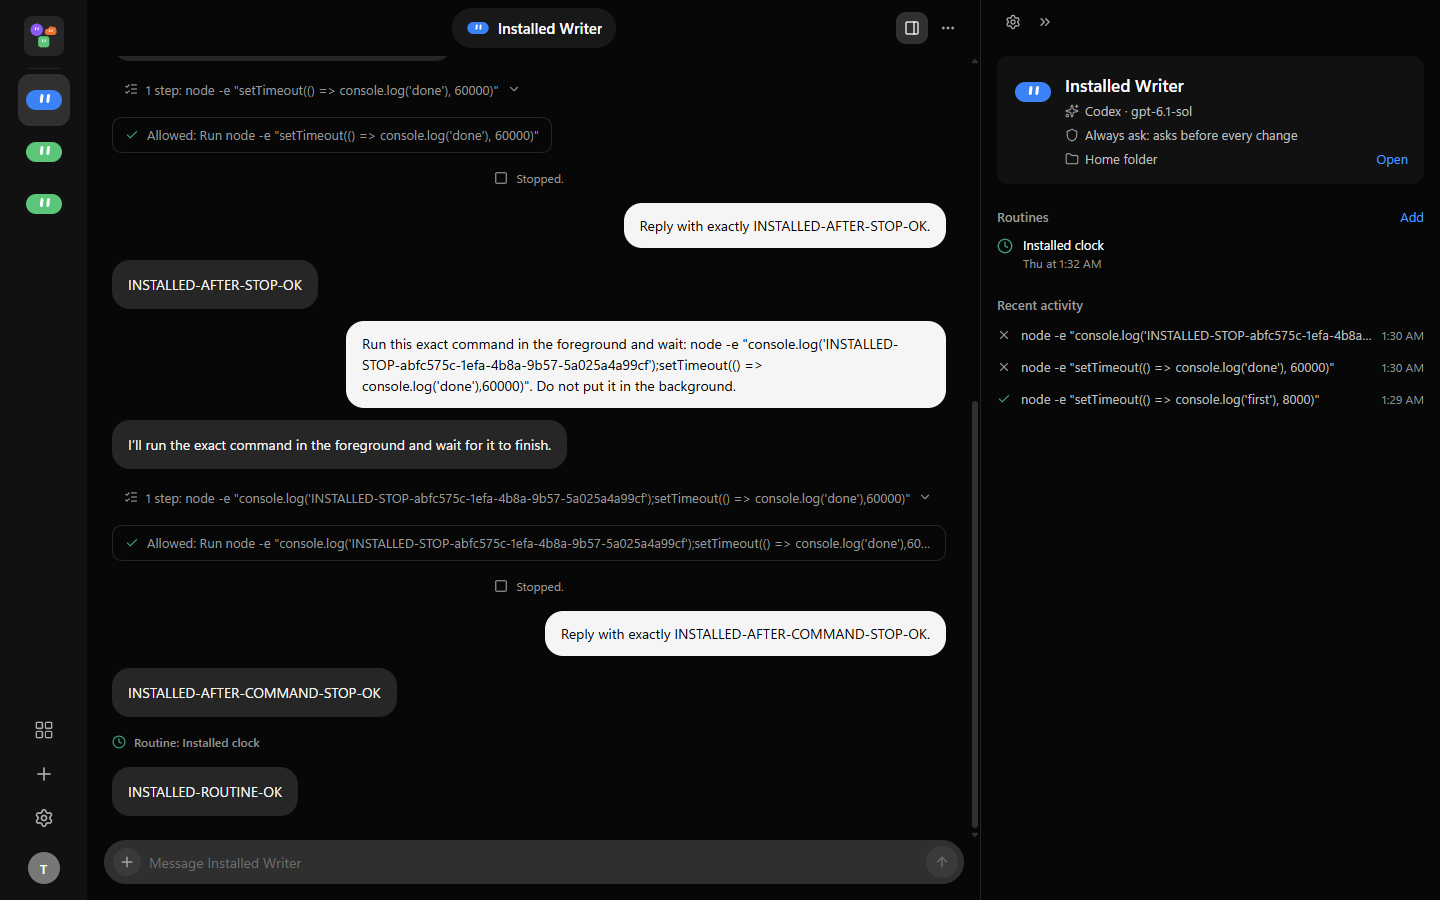
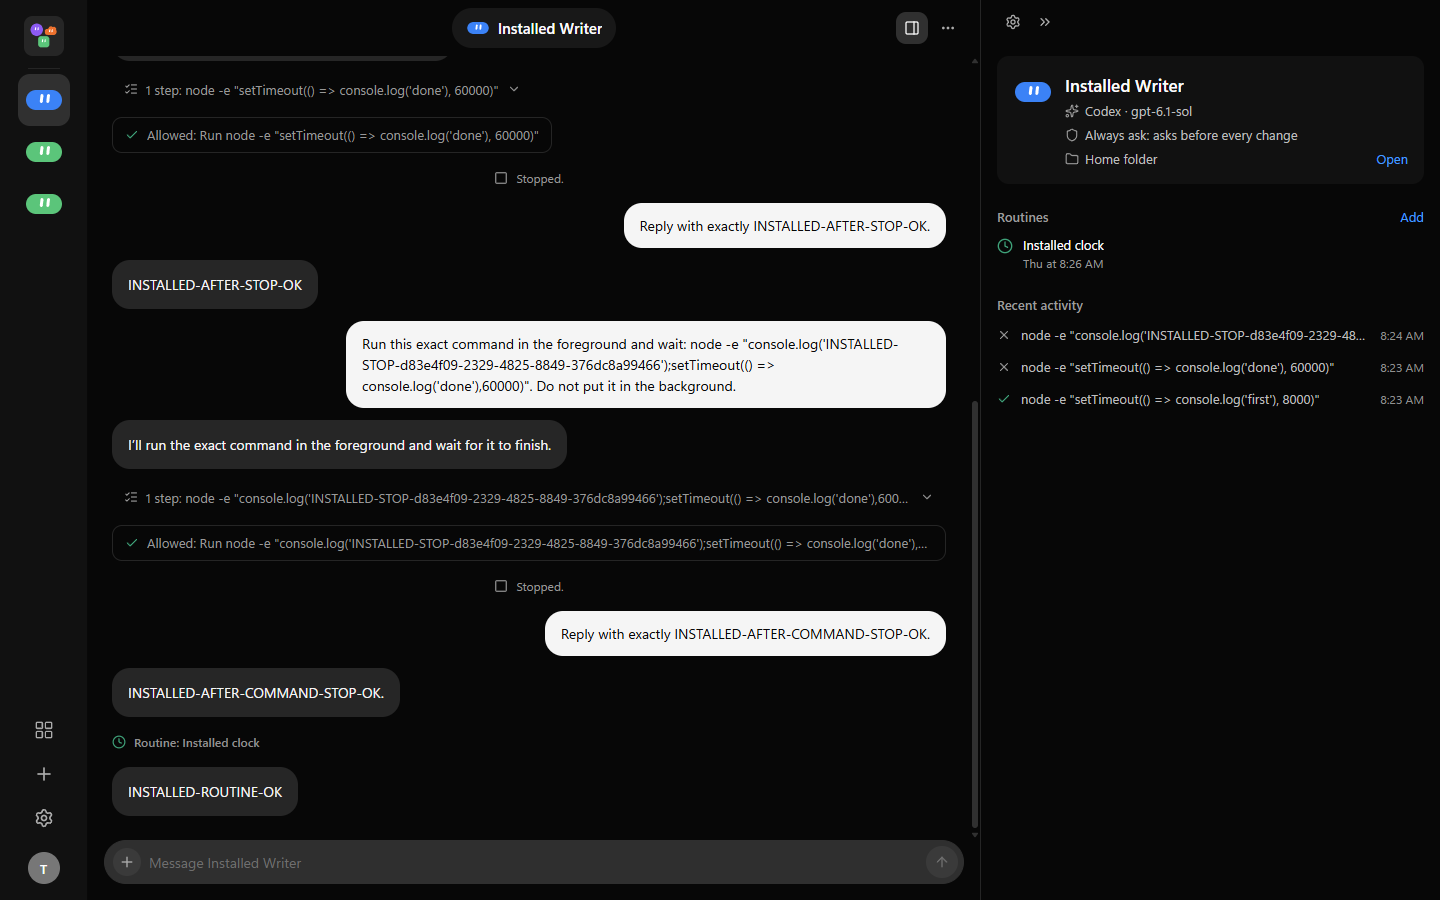
Record installed embedded-browser and quiet-startup acceptance

diff --git a/docs/superpowers/demos/tjommie-phase1-embedded-browser.md b/docs/superpowers/demos/tjommie-phase1-embedded-browser.md
@@ -1,0 +1,52 @@
+# Phase 1 follow-up: embedded browser and quiet startup
+
+Date: 2026-10-22. Worktree: `tjommie-phase1-completion`, branch `phase1-completion-20261021`, based on `a6d2238`.
+
+Status: source integration passed; implementation committed as `6311819`. The refreshed installer is installed and all automated acceptance checks passed. The owner deferred the usual-site embedded login check until later. The previously installed Phase 1 artifact does not establish acceptance of these follow-up changes.
+
+## Changes
+
+- One daemon-owned persistent browser context per bot. The interactive application side panel and bundled Playwright MCP share pages, tabs and signed-in sites. Existing `chrome-profile` directories are retained. The engine is headless Chrome/Edge with a private process pipe, not a separate visible browser window or an exposed browser-debugging port.
+- Explicit Take control / Resume bot, navigation, back/forward/reload, tabs, JavaScript dialogs, pointer/keyboard/wheel/paste input and a keyboard exit route. Closing the panel releases input and returns control to the bot without closing its browser. Same-bot reopen waits for the previous panel's teardown.
+- Frame/page/generation checks and invalidation around structural navigation/resize changes prevent old page pictures from sending input into changed layouts. Browser cleanup attempts independent resources even after a failure. Download saving has one owner while MCP is connected and returns to the manager after disconnect.
+- Chrome/Edge discovery checks machine, x86 and per-user installations and reports a missing engine explicitly.
+- Codex quota selection considers primary and secondary windows, preserves percentage/reset pairs, and waits for the later reset when both are exhausted.
+- Routine failures persist in an outbox atomically with failed history. The desktop subscribes, fetches pending notices, deduplicates live/replayed run ids, and acknowledges only after Windows confirms showing a notification or the foreground suppression policy handles it. Failed/unsupported display stays pending.
+- Windows Codex npm installations resolve their bundled native executable directly. The npm wrapper was independently proven to create a visible terminal despite its parent being hidden. Native launches retain managed-package metadata, the helper path and account isolation. Unknown layouts retain the compatible wrapper fallback. Forced daemon termination helpers are hidden too.
+- Compatible dependency patches were applied. Production `npm audit --omit=dev` reports zero vulnerabilities. The full audit retains 13 affected development-tool entries (5 high, 8 moderate) rooted in `braces` and `sprintf-js`, without compatible patched releases; no forced downgrades were applied.
+
+## Verification record
+
+- Final combined fast suite: **937 tests / 73 files passed**.
+- Root/UI TypeScript, syntax-based no-`any` gate (**214 TypeScript files**) and UI lint passed.
+- Production Next 16.3.8 static build passed.
+- Final real-browser integration: **2 tests / 2 files passed**, covering the daemon's shared context and the actual desktop side panel. The tests include synthetic sign-in persistence, two-bot isolation, dialogs, downloads, MCP disconnect survival, popup resize recovery, exact JPEG dimensions and click alignment.
+- Independent read-only reviewers' findings were fixed and re-reviewed.
+- `npm run package` passed. Mandatory `npm run test:packaged` passed: **1 executed test, zero skips**, with current input and all artifact hashes verified before and after execution.
+- Per-user NSIS installation exited **0**. Installed executable and every payload hash matched the verified build before normal-root acceptance.
+- Exact installed browser panel: **1 real test passed** (16.87 s), including mouse Go, typing, dialogs, popup close/resize, handback, reopening, isolation and owned headless/pipe/no-TCP/no-window checks.
+- Normal-app Own folder acceptance passed using the owner-authorized existing managed Codex account: in-folder work without approvals, same bot/file and another successful turn after restart, fixture deletion, and **zero new visible terminal windows** at 50 ms sampling. See [own-folder-results.json](own-folder-results.json).
+- Installed startup routine failure replay passed: orphan history is failed durably, and the desktop receives/handles/acknowledges the notice after daemon restart. This was intentional foreground suppression, not an assertion of OS toast rendering. See [startup-notice-results.json](startup-notice-results.json).
+- **All 9 installed Phase 1 acceptance checks passed**: provider readiness, cross-provider exchange, original-turn steering, both Stop timings, persistent exact Write approval, browser tools/profile, approved routine proposal, and scheduled execution with the window closed. Stop took **594 ms** immediately after approval and **602 ms** after the sandbox command was running; both persisted as interrupted. See [installed-automated-results.json](installed-automated-results.json).
+- Final provenance verification passed again after acceptance. Normal data retained **2 bots / 1 enabled routine**, and no temporary Own folder bot remains. The app was left closed.
+- Screenshots: [embedded side panel](../../screenshots/phase1-embedded-browser.png) and [installed chat](../../screenshots/phase1-installed-main-chat.png). The local synthetic page is intentionally plain; application chrome uses the existing wireframe/design system with the owner-requested browser extension.
+
+## Limits
+
+- Manual native file pickers, operating-system authentication dialogs and passkey flows are not exposed by this panel. Attach files in chat and ask the bot to upload them. A pending file chooser can be cancelled by the bot with an empty file list after Resume bot; the actual cancellation recovery is covered by the synthetic browser test.
+- Synthetic sites establish cookies/localStorage persistence, isolation and shared bot/manual sessions. They do not establish compatibility with every third-party login provider. The owner chose to test a usual site later on October 22; that manual acceptance remains pending for this new embedded implementation, and the earlier external-browser confirmation does not substitute for it. Existing real credentials are never copied to make a fixture pass.
+- A crash after a Windows notification is shown but before its acknowledgement can replay that notification after restart. Foreground suppression and actual OS toast rendering are distinct acceptance cases.
+- Normal startup and bot work should remain silent. Explicit Claude account sign-in still uses the provider's interactive sign-in console; this change does not introduce an embedded provider terminal.
+- Unknown/localized/partial Windows process termination reports still fail closed. Existing process-tree enumeration limits from the Phase 1 acceptance report remain; this is not Windows Job Object containment.
+- Current Chrome supports the experimental native contents-size repair. Older Chrome/Edge are not separately verified; an explicit unsupported-method response falls back to Playwright viewport sizing, and mismatched captures stay hidden.
+- One earlier synthetic browser test directory could not be removed because tool policy blocked deletion. Its owned browser processes were stopped. Later disposable browser tests cleaned up their own roots.
+
+Nothing is pushed, published or merged into `main` by this task.
+
+## Artifact
+
+- Implementation commit: `6311819`.
+- Installer: `dist-desktop/installer/Tjommie Setup 0.1.0.exe`, 120404614 bytes, unsigned per-user Windows x64 build.
[2 lines of base64/hex data omitted]
+- Provenance covers **569 artifact files**.

diff --git a/docs/superpowers/plans/2026-10-22-phase1-gaps-and-embedded-browser.md b/docs/superpowers/plans/2026-10-22-phase1-gaps-and-embedded-browser.md
@@ -12,10 +12,10 @@ Worktree: `tjommie-phase1-completion`, branch `phase1-completion-20261021`, star
 - [x] Represent secondary Codex quota windows without dropping a blocking limit or using an incorrect reset time.
 - [x] Recover startup routine-failure notices so they reach the desktop after startup without repeated notifications on reconnect.
 - [x] Triage current dependency advisories and apply scoped compatible remediation with evidence.
-- [ ] Verify normal persistent-root Codex Own folder behavior without changing personal CLI configuration or account credentials.
+- [x] Verify normal persistent-root Codex Own folder behavior without changing personal CLI configuration or account credentials.
 - [x] Eliminate terminal windows during normal app launch and bot use (additional owner request). Trace nested CLI launches as well as the daemon; verify owned window/process behavior, not just spawn options.
 - [x] Obtain independent read-only review, fix findings, and run combined validation.
-- [ ] Rebuild and verify the package, exercise the embedded browser in the exact app artifact, and record results and remaining limits.
+- [x] Rebuild and verify the package, exercise the embedded browser in the exact app artifact, and record results and remaining limits.
 
 ## Ownership and integration
 
@@ -30,3 +30,5 @@ Use disposable test profiles and local synthetic pages for automated login/cooki
 Run TypeScript, the syntax-based no-any gate, lint, relevant regression tests and production build. Package verification must validate current input/payload provenance and actually execute its required smoke test. Source tests alone do not establish installed acceptance.
 
 This request supersedes the old Phase 1 external "Show window" browser interaction. It brings shared interactive browser presentation forward from the later computer-view roadmap; it does not add the credentials vault, phone access or general desktop control.
+
+Automated acceptance completed against implementation commit `6311819`. See [the final report](../demos/tjommie-phase1-embedded-browser.md). The owner chose to perform the new embedded browser usual-site login check later; it remains manual acceptance, separate from the passing synthetic tests.

diff --git a/docs/superpowers/demos/tjommie-phase1-demo.md b/docs/superpowers/demos/tjommie-phase1-demo.md
@@ -1,5 +1,7 @@
 # Phase 1 installed-app acceptance
 
+> Historical acceptance for the `56f08c6` installer. The browser interaction and terminal behavior were subsequently changed. Current follow-up evidence is in [embedded browser and quiet startup](tjommie-phase1-embedded-browser.md); the owner confirmation below applies to the earlier browser implementation.
+
 Dates: 2026-10-21 to 2026-10-22 (Africa/Johannesburg). App version: 0.1.0. CLI versions checked during this work: Claude Code 2.1.304 and Codex 0.160.0.
 
 Status: the installed demo checks passed. The owner confirmed the requested manual browser-persistence and visual checks. Tjommie was left closed after verification.
